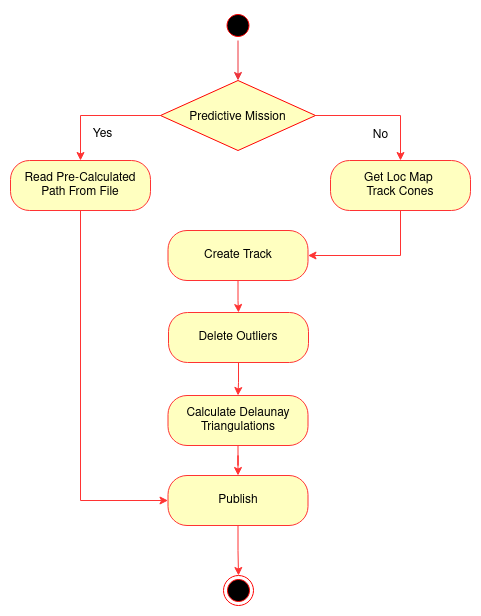
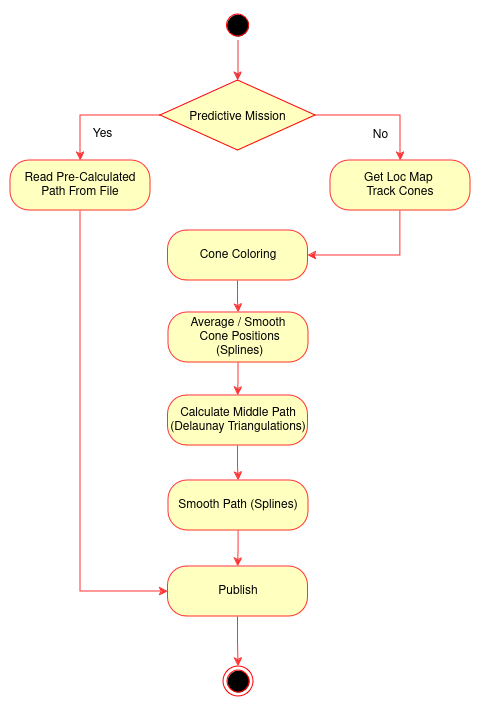
FSF-3356 feat(docs): planning documentation updates phase2 (#313)
* feat(docs): planning diagrams and summary updated

* feat(docs): readme updated with new diagrams and structure

* fix(docs): diagrams now compatible with both drawio and image

* Readme file of the node explains the functionality of launch files and how to work with them; other minor changes

---------

Changed region(s): [[0.0, 0.0925, 0.9979, 0.987], [0.4678, 0.0, 0.5301, 0.0617]]

diff --git a/src/planning/README.md b/src/planning/README.md
@@ -15,7 +15,12 @@ You will need CGAL library for the Delaunay Triangulations. GSL library for the 
 ### Compile
 
 ```SHELL
-	colcon build --packages-select planning custom_interfaces
+	colcon build --packages-select planning
+```
+
+If this is the first time compiling, you may need to run the following command so that some dependencies are also compiled:
+```SHELL
+	colcon build --packages-select planning custom_interfaces eufs_msgs fs_msgs
 ```
 ### Source 
 
@@ -23,11 +28,17 @@ You will need CGAL library for the Delaunay Triangulations. GSL library for the 
 	source ./install/setup.bash
 ```
 
-### Run
+### Run with ROS2
 
+Choose one of the launch files available at the "launch" directory. Each file's name indicates the context in which 
+it should be used. If the name of the file is <file_name> run the following command (replace <file_name> with the 
+actual name of the launch file):
 ```SHELL
-	ros2 run planning planning
+	ros2 run planning <file_name>
 ```
+At each launch file, you can find the arguments which will be passed to the planning node. Those arguments control whether the node publishes 
+visualization messages (which can be used to foxglove), where the node gets its input from, and parameters intrinsic to the algorithms (which were 
+tuned to some extent). At the declaration of each launch argument, you will find the description of the argument and the value which will be used if you launch the node with that launch file. If you want to change the value which will be used, edit the launch file and compile the package again.
 
 ### Test
 A) You can either run with colcon test.
@@ -48,27 +59,29 @@ The architecture of the module may be described according to the following diagr
 This diagram will focus on the main classes and instances inside the planning module, mentioning only the core units and most important functions.
 
 <p align="center">
-  <img src="../../docs/assets/Planning/ClassDiagram.png" />
+  <img src="../../docs/diagrams/planning/ClassPlanning.drawio.png" />
 </p>
 
 * **ROS Node:** Serves as the fundamental structure and operational backbone of the system.
 
-* **Planning:** It is the main orchestrator behind all the processes. It is responsible for the communication with other nodes. It contains an Adapter instance to manage information from the car/simulator and a LocalPathPlanner that will be responsible for the path calculation.
+* **Planning:** It is the main orchestrator behind all the processes. It is responsible for the communication with other nodes. It contains an Adapter instance to manage information from the car/simulator and the main intervenients in the pipeline, as the LocalPathPlanner, responsible for the path calculation, the ConeColoring, responsible for attributing a color to unlabeled cones, the PathSmoothing, responsible for smoothing the point array to be published and the Track, which assembles the cones information after coloring and averages them using splines.
 
 * **LocalPathPlanner:** This component is responsible for calculation the desired path. It takes the information from the track and using that it creates a sequence of points within the track boundaries for the control module to use as a reference later on.
 
-* **Track:** This component assembles the information received by the track map, splitting and organizing the different colors and cones. It can also validate the received cones using splines to evaluate the distance between one cone and the trend in its side of the track.
+* **Track:** This component assembles the information received by the track map, splitting and organizing the different cones in side and colors. It can also deals with any outliers by averaging out all cones using splines, and thus transforming the outliers into the main distribution sequence.
 
-* **Cone:** Basic unit that will fill the track instance. Contains its coordinates, color and id, which will be useful to identify it.
+* **ConeColoring:** This component responsible for attributing a color to unlabeled ones. It starts from a certain pair, and searches for the next cone for each using a cost function, achieving a fully colored track map in the end.
+
+* **PathSmoothing:** This component is responsible for fitting a spline through all the calculated points, smoothing the path the vehicle will follow and augmenting the number of references if necessary. 
 
 * **PlanningAdapter:** Implementation of the Adapter Pattern. It is an abstraction layer that's used to receive and interact with the car or simulator, depending on the current usage. It can be used for example to control the current event or the car state.
 
 ### Sequence Diagram
 
-The planning module receives the track map(a cone array) from the Localization and Mapping block. The main module receives it and will send it to the Track instance to fill itself and validates the data using splines. After this step it will transmit the track to the Local Path Planner, which will calculate the ideal path and return it, finally to the main module again. The path is then forwarded to the subsequent node Control.
+The planning module receives the track map(a cone array) from the Localization and Mapping block. The main module receives it and will send it to the Cone Coloring to attribute a side to each. The Track instance is then filled with these and deals with outliers by averaging the margins using splines. The next step is transmitting the track to the Local Path Planner, which will calculate the ideal path and return it. Finally, these points are sent to the PathSmoothing, where they are processed by a spline approximation, being then returned back to the main module. The path is then forwarded to the subsequent node Control.
 
 <p aligh="center">
-  <img src="../../docs/assets/Planning/SequenceDiagram.png">
+  <img src="../../docs/diagrams/planning/SequencePlanning.drawio.png">
 </p>
 
 ### Activity Diagram
@@ -76,7 +89,7 @@ The planning module receives the track map(a cone array) from the Localization a
 The planning module doesn't have many different flows. The main one to notice is the difference in the action depending on the event. Since for the Skidpad and Acceleration Events, the best path is already calculated, the module will just go find that data and send it. If we are not in the presence of those, the flow will follow just like previously mentioned.
 
 <p align="center">
-  <img src="../../docs/assets/Planning/ActivityDiagram.png" style="width: 50%; height: auto;">
+  <img src="../../docs/diagrams/planning/ActivityPlanning.drawio.png" style="width: 50%; height: auto;">
 </p>
 
 ## Full Documentation
@@ -85,9 +98,6 @@ A more precise information about the Planning Module can be found [here](https:/
 
 ## Main External Libraries
 
-1. [ROS](https://docs.ros.org/en/foxy/index.html)
+1. [ROS2 Humble](https://docs.ros.org/en/humble/index.html)
 2. [CGAL](https://www.cgal.org/)
 3. [GSL](https://www.gnu.org/software/gsl/)
-
-
-
